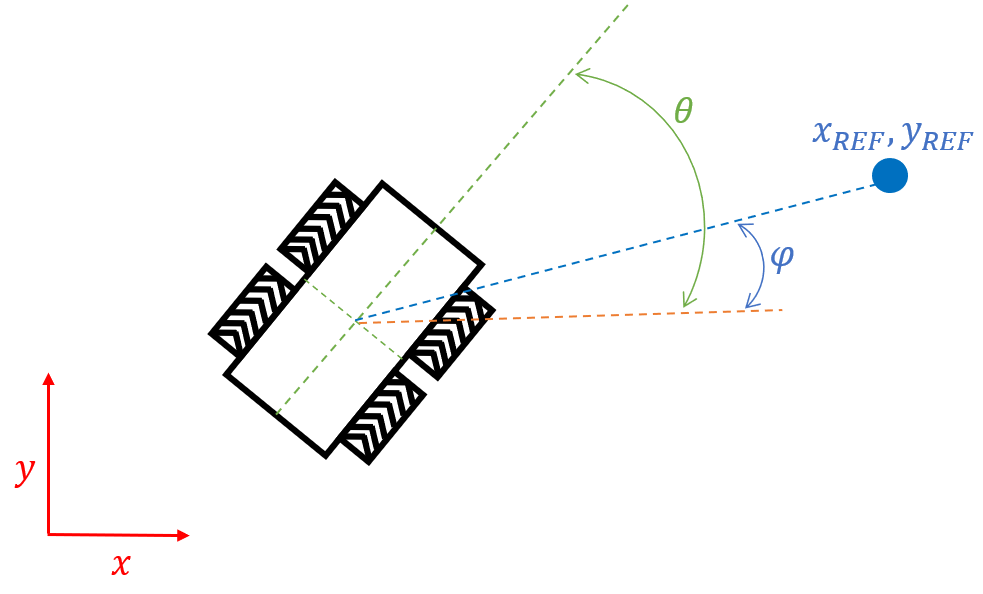
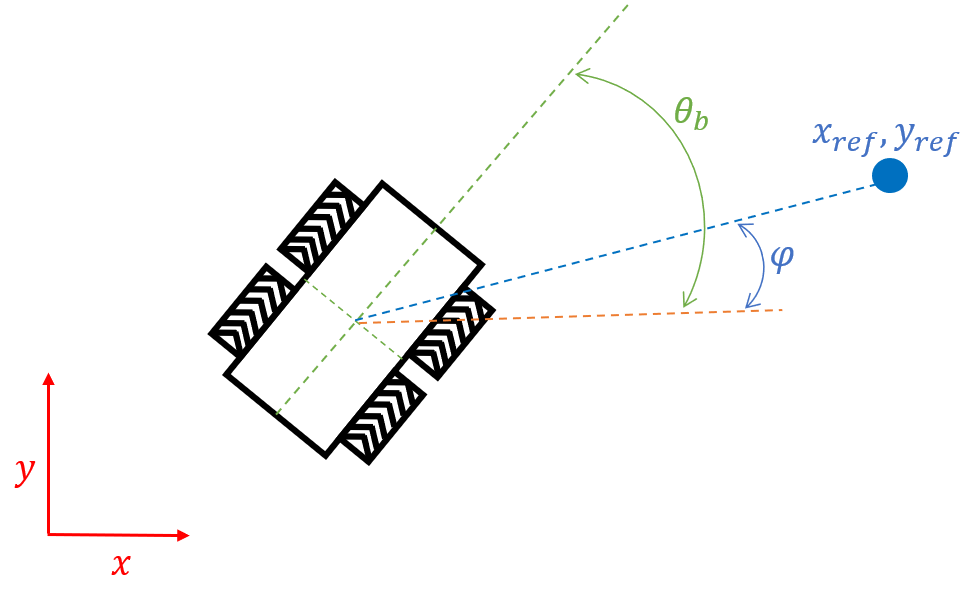
cap4 quasi corretto da me quindi boh

diff --git a/chapter4.tex b/chapter4.tex
@@ -1,30 +1,30 @@
 \chapter{Mobile Manipulators Control Problem}
 \label{chapter4}
-We have seen that Mobile Manipulators are systems where locomotion and manipulation tasks are held simultaneously. The coordination of this two tasks is not trivial since the mobile platform combined with the manipulator is a redundant system. So, the same point in workspace can be reached moving the mobile base, or moving the manipulator, or with a combined motion of the two. In addition to this kinematic issue, also the dynamic interaction between mobile base and manipulator should be taken into account in a control logic. \\
-In literature the control of mobile manipulators mainly followed two strategies. The first approach is the separate control of the mobile base and of the manipulator arm, considering then their interaction. With this approach is possible to simply solve the kinematic redundancy of the system. A reference for this approach can be \cite{liulewis} or \cite{chung1998interaction}. The second approach is the coordination of the motion of the base and the manipulator through the control of the whole integrated redundant system. 
-We will split this chapter in the description of the control of the mobile base, followed in a seceond section by the problem of the integration of the manipulator in the control.
+We have previously seen that Mobile Manipulators are systems where locomotion and manipulation tasks are held simultaneously. The coordination of this two tasks is not trivial since the mobile platform combined with the manipulator is a redundant system, so the same point in workspace can be reached moving the mobile base, or moving the manipulator, or with a combined motion of the two. In addition to this kinematic issue, also the dynamic interaction between mobile base and manipulator should be taken into account in a control logic. \\
+In literature the control of mobile manipulators mainly followed two strategies. The first approach is the separate control of the mobile base and of the manipulator arm, considering later their interaction. With this approach is possible to simply solve the kinematic redundancy of the system. A reference for this approach can be \cite{liulewis} or \cite{chung1998interaction}. The second approach is the coordination of the motion of both the base and the manipulator through the control of the whole integrated redundant system choosing one configuration among the infinite possible ones with a suitable criterion.\\
+We will split this chapter in the description of the control of the mobile base, followed in the second section by the problem of the integration of the manipulator in the control.
 \section{Control of Mobile Robots}
-Facing the control of the mobile base it is needed to deal with a nonholonomic system, which is nonlinear, as it has been written before.
-Usually for the control of the motion of the mobile base the kinematic model is used applying as inputs to the system the commands for the longitudinal velocity $v$ and the steering velocity $\omega$. In this way it is possible to control directly the generalized velocities of the base, i.e. $\dot{x},\dot{y},\dot{\theta}$.
-It would be certainly possible to use a dynamic based control of the motion through torques commands to the wheels of the base, but in most mobile robots, in particular in the one we used, the dynamic perturbation is very small, or it can be canceled through a proper state feedback. Moreover it is possible to command the mobile robot only via velocity commands.
+Facing the control of a mobile platform it is needed to deal with a nonholonomic system, which is nonlinear.
+Usually for the control of the mobile base motion the kinematic model is used applying as inputs to the system the commands for the longitudinal velocity $v$ and the steering velocity $\omega$. In this way it is possible to control directly the generalized velocities of the base, i.e. $\dot{x}_b,\dot{y}_b,\dot{\theta}_b$, through the nonholonomic relation \ref{G}.
+It would be certainly possible to use a dynamic based control of the motion giving torques commands to the wheels of the base, but in most mobile robots, in particular in the one we have used, the dynamic perturbation is very small, or it could be canceled through a proper state feedback. Moreover a common charachteristics of commercially available mobile platforms is that it is possible to give the mobile robot only velocity commands.\\
 The control of the mobile base can be implemented in two ways: regulation, i.e. driving the robot to a constant position and/or orientation, and trajectory tracking, i.e. forcing the robot to follow a time-varying reference trajectory.
 \subsection{Regulation}
 The regulation problem can be addressed in two ways.
 \subsubsection{Cartesian Regulation}
 \begin{figure}[h!]
 	\centering
-	\includegraphics[scale=0.8]{cartesian_regulation}
+	\includegraphics[scale=0.7]{cartesian_regulation}
 	\caption{Cartesian Regulation problem}
 	\label{cartregulation} 
 \end{figure}
 The robot (a unicycle) has to reach a point whose coordinates $(x_{ref},y_{ref})$ are defined in the Cartesian space. In this problem there is no need to control also the orientation of the robot. 
-In literature several control laws have been proposed. Among others \cite{siciliano} reports: defining the Cartesian error $\mathbf{e}_P=(x_{ref}-x,y_{ref}-y)=(e_{P_x},e_{P_y})$ the control inputs can be obtained as
+In literature several control laws have been proposed. Among others \cite{siciliano} reports: defining the Cartesian error $$\mathbf{e}_P=(x_{ref}-x_b,y_{ref}-y_b)=(e_{P_x},e_{P_y})$$ the control inputs can be obtained as
 \begin{align}
-	v &= k_1(e_{P_x}\cos\theta+e_{P_y}\sin\theta)\\
-	\omega &= k_2\left(\text{Atan2}\left(e_{P_y},e_{P_x}\right)-\theta-\pi\right)
+	v &= k_1(e_{P_x}\cos\theta_b+e_{P_y}\sin\theta_b)\\
+	\omega &= k_2\left(\text{Atan2}\left(e_{P_y},e_{P_x}\right)-\theta_b-\pi\right)
 \end{align}
 where $k_1$ and $k_2$ are positive constants. 
-As \cite{siciliano} too says, these commands can be directly interpreted, because $v$ is proportional to the Cartesian error, driving the robot to $\mathbf{e}_P=0$, while the $\omega$ is steering the robot in the direction pointing to $(x_{ref},y_{ref})$, i.e. $\omega$ is proportional to the difference $\theta-\varphi$, where $\varphi$ is $\text{Atan2}\left(e_{P_y},e_{P_x}\right)$.
+As \cite{siciliano} too says, these commands can be directly interpreted seeing $v$ has the an input proportional to the Cartesian error, driving the robot to $\mathbf{e}_P=0$, while $\omega$ is steering the robot in the direction pointing to $(x_{ref},y_{ref})$, i.e. $\omega$ is proportional to the difference $\theta-\varphi$, where $\varphi$ is $\text{Atan2}\left(e_{P_y},e_{P_x}\right)$ as can be seen in Figure \ref{cartregulation}.
 \subsubsection{Posture Regulation}
 The robot has to get to a certain configuration, i.e. Cartesian position and orientation. 
 Also in this case, the literature is full of control laws for this kind of problem. We report the control law found in \cite{dixon} and in \cite{samson}.
@@ -35,15 +35,15 @@ Defining, for a practical advantage, the transformation:
 		e_1\\e_2\\e_3
 	\end{matrix}\right] = 
 	\left[\begin{matrix}
-		\cos\theta & \sin\theta & 0 \\
-		-\sin\theta & \cos\theta & 0 \\
+		\cos\theta_b & \sin\theta_b & 0 \\
+		-\sin\theta_b & \cos\theta_b & 0 \\
 		0 & 0 & 1
 	\end{matrix}\right]
 	\left[\begin{matrix}
-	x_{ref}-x\\y_{ref}-y\\\theta_{ref}-\theta
+	x_{ref}-x_b\\y_{ref}-y_b\\\theta_{ref}-\theta_b
 	\end{matrix}\right]
 \end{equation}
-Which are the errors in a local frame of the mobile robot, where $e_1$ is the error in the longitudinal direction and $e_2$ is the error in the transversal direction.\\ Deriving the above equation taking into account the kinematic relation \ref{G}:
+where $\mathbf{e}$ is the vector of the errors in the local frame of the mobile robot. In particular $e_1$ is the error in the longitudinal direction and $e_2$ is the error in the transversal direction.\\ Deriving the above equation taking into account the kinematic relation \ref{G}:
 \begin{equation}
 	\left[\begin{matrix}
 		\dot{e}_1\\\dot{e}_2\\\dot{e}_3
@@ -70,27 +70,26 @@ where $k_1$ and $k_2$ are positive constants. So the closed-loop dynamics become
 	k_1e_1+\omega e_2\\-\omega e_1\\-k_2e_3+e_2^2\sin(t)
 	\end{matrix}\right]
 \end{equation}
-For the stability proof of this control law we refer to \cite{dixon}.
+Note that the closed-loop dynamics for $e_3$ is a linear system subjected to a nonlinear additive disturbance. Anyway it remains stable as long as this disturbance remains bounded. For the stability proof of this control law we refer to \cite{dixon}.
 \subsection{Trajectory Tracking}
-A \textit{trajectory} is a path, i.e. the locus of points which the robot has to follow in the execution of the assigned motion, over which a timing law has been assigned. \\
-So a trajectory can be represented as the time history $x_d(t),y_d(t)$, but in the case of a mobile robot the trajectory has also to be admissible, because it has to respect the nonholonomy of the system, i.e. it must satisfy the relation \ref{A}:
+Controlling that the robot follows a certain trajectory not only means to make it track a path, i.e. the locus of points which the robot has to follow in the execution of the assigned motion, but it also has to satisfy a timing law which has been assigned. In this sense a trajectory can be represented as a time-varying reference configuration $x_{ref}(t),y_{ref}(t),\theta_{ref}(t)$. \\In the case of mobile robots the trajectory has also to be admissible, respecting the nonholonomy of the system; in other words in every time instant the trajectory expression must satisfy the relation \ref{At}:
 \begin{equation} \label{admissibletrajectory}
 	\begin{split}
-		\dot{x}_d &= v_d\cos\theta_d\\
-		\dot{y}_d &= v_d\sin\theta_d\\
-		\dot{\theta}_d&=\omega_d
+		\dot{x}_{ref} &= v_{ref}\cos\theta_{ref}\\
+		\dot{y}_{ref} &= v_{ref}\sin\theta_{ref}\\
+		\dot{\theta}_{ref}&=\omega_{ref}
 	\end{split}
 \end{equation}
-Usually reference trajectories for mobile robots are being computed by planning algorithms so that \ref{admissibletrajectory} is satisfied, but they give in output just the Cartesian coordinates' time history. The orientation reference trajecory can be computed as:
+Usually reference trajectories for mobile robots are being computed by planning algorithms so that \ref{admissibletrajectory} is satisfied, giving in output just the Cartesian coordinates' time history. The orientation reference trajectory can be computed as:
 \begin{equation}
-	\theta_d(t)=\text{Atan2}(\dot{x}_d(t),\dot{x}_d(t)) 
+	\theta_{ref}(t)=\text{Atan2}(\dot{y}_{ref}(t),\dot{x}_{ref}(t)) 
 \end{equation}
  And also the resulting reference control inputs can be calculated.
  \begin{align}
- 	v_d(t)&=\sqrt{\dot{x}_d^2(t)+\dot{y}_d^2(t)}\\
- 	\omega_d(t)&=\frac{\ddot{y}_d(t)\dot{x}_d(t)-\ddot{x}_d(t)\dot{y}_d(t)}{\dot{x}^2_d(t)+\dot{y}^2_d(t)}
+ 	v_{ref}(t)&=\sqrt{\dot{x}_{ref}^2(t)+\dot{y}_{ref}^2(t)}\\
+ 	\omega_{ref}(t)&=\frac{\ddot{y}_{ref}(t)\dot{x}_{ref}(t)-\ddot{x}_{ref}(t)\dot{y}_{ref}(t)}{\dot{x}^2_{ref}(t)+\dot{y}^2_{ref}(t)}
  \end{align}
- To quantify the tracking control objective the tracking error vector $\mathbf{e}$ is defined as before (\ref{trackingerrortransformation}), but in trajectory tracking problems the derivative of $\mathbf{e}$ is different than in regulation problems because the derivative of the reference trajectory is no more null.
+ To quantify the control objective the tracking error vector $\mathbf{e}$ is defined as before (Equation \ref{trackingerrortransformation}), with the difference that in trajectory tracking problems the derivative of the reference trajectory is no more null.
  \begin{equation}
  	\left[\begin{matrix}
  		\dot{e}_1\\\dot{e}_2\\\dot{e}_3
@@ -101,7 +100,7 @@ Usually reference trajectories for mobile robots are being computed by planning 
  \end{equation}
  The tracking error dynamics is nonlinear, so the control of the system can be addressed with a nonlinear control or linearizing the system with a suitable transformation.
 \subsubsection{Nonlinear Control}
-A common used Nonlinear Control for trajectory tracking can be found in \cite{samsonCanudas},\cite{samson},\cite{dixon} and \cite{siciliano}, as follows:
+A common used Nonlinear Control for trajectory tracking problems can be found in \cite{samsonCanudas},\cite{samson},\cite{dixon} and \cite{siciliano} as follows:
 \begin{equation}
 	\left[\begin{matrix}
 	v\\\omega
@@ -119,43 +118,43 @@ Where $k_2$ is a positive constant and $k_1$ and $k_3$ are positive gains which 
 	\omega e_2-k_1e_1\\v_{ref}\sin e_3-\omega e_1\\-v_{ref}\frac{\sin e_3}{e_3}-k_2e_3
 	\end{matrix}\right]
 \end{equation}
-Also here, for the stability proof of this control law we refer to \cite{dixon}.
+Also for the stability proof of this control law we refer to \cite{dixon}.
 \subsubsection{Feedback Linearization}
 Input/Output linearization is a commonly used way to face both regulation and trajectory tracking problems for mobile robots, but it has been seen that paradoxically it solves more easily trajectory tracking problems than regulation ones.
-The idea of Feedback Linearization is to move the control problem to the trajectory of a point $P$ placed at a distance $\epsilon$ from the centre of the mobile robot in the direction of the longitudinal velocity.
+The idea of Feedback Linearization is to move the control problem to the trajectory tracking of a point $P$ placed at a distance $\varepsilon$ from the centre of the mobile robot in the direction of the longitudinal velocity.
 Its coordinates are
 \begin{equation}
 	\begin{split}
-		x_P&=x+\epsilon\cos\theta\\
-		y_P&=y+\epsilon\sin\theta
+		x_P&=x+\varepsilon\cos\theta_b\\
+		y_P&=y+\varepsilon\sin\theta_b
 	\end{split}
 \end{equation}
-Which differentiated are the velocities of $P$:
+which differentiated give the velocities of $P$:
 \begin{equation}
 	\left[\begin{matrix}
 		\dot{x}_P\\\dot{y}_P
 	\end{matrix}\right]=\left[\begin{matrix}
-		\dot{x}_P-\dot{\theta}\epsilon\sin\theta\\
-		\dot{y}_P+\dot{\theta}\epsilon\cos\theta
+		\dot{x}_P-\dot{\theta}_b\varepsilon\sin\theta_b\\
+		\dot{y}_P+\dot{\theta}_b\varepsilon\cos\theta_b
 	\end{matrix}\right]=\left[\begin{matrix}
-	\cos\theta & -\epsilon\sin\theta\\
-	\sin\theta & \epsilon\cos\theta
+	\cos\theta_b & -\varepsilon\sin\theta_b\\
+	\sin\theta_b & \varepsilon\cos\theta_b
 	\end{matrix}\right]\left[\begin{matrix}
-	v\\\omega\end{matrix}\right]=T(\theta)\left[\begin{matrix}
+	v\\\omega\end{matrix}\right]=T(\theta_b)\left[\begin{matrix}
 	v\\\omega\end{matrix}\right]
 \end{equation}
-The determinant of matrix $T(\theta)$ is equal to $\epsilon$ and therefore always different from $0$ as long as $b=0$. Thence the inverted relation is:
+The determinant of matrix $T(\theta_b)$ is equal to $\varepsilon$ and therefore always different from $0$ as long as $b\neq0$. Thence the inverted relation is:
 \begin{equation} 
 	\left[\begin{matrix}
 		v\\\omega\end{matrix}\right]
 	=\left[\begin{matrix}
 		\cos\theta & \sin\theta\\
-			-\frac{1}{\epsilon}\sin\theta & \frac{1}{\epsilon}\cos\theta
+			-\frac{1}{\varepsilon}\sin\theta & \frac{1}{\varepsilon}\cos\theta
 	\end{matrix}\right]\left[\begin{matrix}
 		u_1\\u_2
 	\end{matrix}\right] 
 \end{equation}
-Where $u_1$ and $u_2$ are the new linearized output of the controller. Indeed thanks to the feedback linearization, a simple linear model can be rewritten:
+where $u_1$ and $u_2$ are the new linearized output of the controller. Indeed thanks to the feedback linearization, a simple linear model can be rewritten:
 \begin{equation}
 	\left[\begin{matrix}
 		\dot{x}_P\\\dot{y}_P
@@ -170,76 +169,76 @@ And so a very simple linear controller can be defined as in \cite{siciliano} wit
 		u_2&=\dot{y}_{P_{ref}}+k_2\left({y_P}_{ref}-y_P\right)
 	\end{split}
 \end{equation}
-Where $k_1$ and $k_2$ are positive gains. \\
-It has to be noted that the orientation of the unicycle  $\theta$ is not controlled, but its time evolution due to the control inputs $u_1$ and $u_2$ can be modeled as:
+where $k_1$ and $k_2$ are positive gains. \\
+It has to be noted that the orientation of the unicycle  $\theta_b$ is not controlled, but its time evolution due to the control inputs $u_1$ and $u_2$ can be modeled as:
 \begin{equation}
- 	\dot{\theta}=\frac{u_2\cos\theta-u_1\sin\theta}{\epsilon}
+ 	\dot{\theta_b}=\frac{u_2\cos\theta_b-u_1\sin\theta_b}{\varepsilon}
 \end{equation}
-Also a notation on the value of $\epsilon$ has to be added, because with smaller values of $\epsilon$ is possible to track more precisely a trajectory even if it involves curves with a small radius, but decreasing $\epsilon$, $T(\theta)$ tends to be singular, therefore leading to much higher values of $v$ and $\omega$.
+Also a notation on the value of $\varepsilon$ has to be added, because with smaller values of $\varepsilon$ it is possible to track more precisely the motion of the mobile robot along a trajectory even if it involves curves with a small radius, but decreasing $\varepsilon$, $T(\theta_b)$ tends to be singular, therefore leading to much higher values of $v$ and $\omega$.
 
 \section{Control of Mobile Manipulators}
-Although Mobile Manipulators are a known technology from decades, the control of these systems is still sparse. In literature many approaches have been proposed to face the kinematic redundancy of the Mobile Manipulator system. \\
-A typical Mobile Manipulator consists of a nonholonomic base with 2 degrees of freedom (considering the nonholonomic constraint on the generalized velocities) and an arm which usually have 6 degrees of freedom, for a total of $n=8$; anyway, for vector $X_{ee}$ of the position and orientation of the end effector position has only $m=6$ components to be defined. The remaining $r=n-m=2$ redundant degrees of freedom can be exploited to solve the kinematic redundancy problem, mentioned in section \ref{dirinvkin}, satisfying a set of user-defined additional tasks. As explained in \cite{bayle},\cite{seraji1998},\cite{seraji1993} and \cite{mikschschroeder}, these additional tasks are described by a set of internal coordinates which are defined as kinematic function of the generalized coordinates $\xi=\left[x^T ; q^T\right]$
+Although Mobile Manipulators are a known technology from decades, the control of these systems is still sparse. As said before it is surely possible to consider separately the base and the manipulator using known strategies for the control of the two, dealing only with the coupling of their motions, but what is of particular interest is the possibility of coordination of the motion of the two subsystems in order to achieve a certain task. In literature many approaches have been proposed to track a reference trajectory of the end effector position and orientation $X_{ee,ref}(t)$ coping with the kinematic redundancy of the Mobile Manipulator system. As explained in \cite{bayle},\cite{seraji1998},\cite{seraji1993} and \cite{mikschschroeder}, the redundant degrees of freedom of the system can be exploited to solve the kinematic redundancy problem satisfying a set of user-defined additional tasks. In their works, these tasks are described by a set of internal coordinates, defined as kinematic functions of the generalized coordinates $x=\left[x_a^T ; x_b^T\right]$:
 \begin{equation}\label{Phi}
-	\Phi=g(\xi)
+	\Phi=g(x)
 \end{equation}
-These internal coordinates can have different physical meanings (like the distance between the wrist of the manipulator from the arm) or mathematical meanings (such as the projection of the gradient of an objecive function). There is not a fixed set of kinematic functions to pick, but the user can define those according to the task that has to be performed. A new extended vector $X_{ext}$ can be defined as:
+These internal coordinates can have different physical meanings, like the distance between the wrist of the manipulator from the arm, or mathematical meanings, such as the projection of the gradient of an objecive function. There is not a fixed set of kinematic functions to pick, but the user can define those according to the task that has to be performed. A new extended vector $X_{ext}$ can then be defined as:
 \begin{equation}
 	X_{ext}=\left[\begin{matrix}
 	X_{ee} \\ \Phi
 	\end{matrix}\right]
 \end{equation}
-The control problem now becomes a trajectory tracking of ${X_{ext}}_{ref}(t) =\left[\begin{matrix} {X_{ee}}_{ref}^T(t) \ ;\ \Phi_{ref}^T(t) \end{matrix}\right]$, where $ \Phi_{ref}(t)$ is defined by the relation \ref{Phi} over time.\\
-The trajectory tracking problem usually consists in the optimization of an objective function $\varphi(q)$ defined with one or multiple properly weighted criteria, some of which are shown in \cite{multicriteria}. The most used optimization criteria are: 
+The control problem now becomes a trajectory tracking of ${X_{ext}}_{ref}(t) =\left[\begin{matrix} X_{ee,ref}^T(t) \ ;\ \Phi_{ref}^T(t) \end{matrix}\right]$, where $ \Phi_{ref}(t)$ is defined by the relation \ref{Phi} over time.\\
+The trajectory tracking problem usually consists in the optimization of an objective function $\varphi(x)$ defined with one or multiple properly weighted criteria, some of which are shown in \cite{multicriteria}. The most used optimization criteria are: 
 \begin{itemize}
-	\item The maximization of the manipulability of the system. See \cite{yamamoto}. A short description of what manipulability will follow.
+	\item The maximization of the manipulability of the system. See \cite{yamamoto}. A short description of how manipulability is managed will follow.
 	\item The minimization of the torque inputs. See \cite{chen1997dynamic}.
 	\item The minimization of the deviation from the mid-range joints of the manipulator. See \cite{khatib1999}.
 \end{itemize}
 Clearly in addition to all these terms one is added for the minimization of the tracking error for all the vector $X_{ext}$.\\
-It is not mandatory to extend the controlled vector adding internal coordinates in order to solve the kinematic redundancy problem. The additional tasks that the robot is asked to accomplish can be obtained adding a term to be minimized, e.g. the manipulability index, in the optimization problem. See for example \cite{bayle1} or \cite{bayle2} where the control is divided in two terms, one term that imposes the joint velocities  through the pseudo-inverse matrix of $J(q)$ and one term to maximize the manipulability of the system.\\
-Exposing these methods we haven't had to specify wheter a kinematic or dynamic model is used, leaving the user the possibility to choose the more suitable one with respect to the type of task the robot has to perform. If, for example, the planned motions of the robot can involve an high dynamic influence of the base on the arm and/or viceversa, a dynamic model should be considered, using as input to the system the joint torques. A modelisation of the compensation of the dynamic effects between arm and base is discussed in \cite{yamamoto1}.
+The use of internal coordinates is only one of the ways to ask the robot to accomplish the user defined additional tasks. This indeed can be obtained adding a term to be minimized, e.g. the manipulability index, in the optimization problem. See for example \cite{bayle1} or \cite{bayle2} where the control is divided in two terms, one term that imposes the joint velocities  through the pseudo-inverse matrix of $J(x)$ and one term to maximize the manipulability of the system.\\
+Exposing these methods we have not had to specify wheter a kinematic or dynamic model is used, leaving the user the possibility to choose the more suitable one with respect to the type of task the robot has to perform. If, for example, the planned motions of the robot can involve an high dynamic influence of the base on the arm and/or viceversa, a dynamic model should be considered, using as input to the system the joint torques. A modelisation of the compensation of the dynamic effects between arm and base is discussed in \cite{yamamoto1}.
 Moreover, in the last years also some adaptive and robust controllers are being developed to deal with dynamic uncertainties, but they will not be discussed in this work. We refer to \cite{libromobilemanipulators} for a fairly thorough discussion on the subject.
 
 \subsubsection{Manipulability} 
-Kinematically the manipulability of a manipulator is a measure of its attitude to arbitrarily change the end effector position and orientation. \\
-A common manipulability index has been presented in \cite{yoshikawa1983} \cite{yoshikawa1985}.
+Kinematically the manipulability of a manipulator is a measure of its attitude to arbitrarily change the end effector position and orientation, so it is of interest to maximize manipulability in robotic operations in order to achieve high performances.\\
+A commonly used manipulability index has been presented in \cite{yoshikawa1983} \cite{yoshikawa1985}.
 \begin{equation}
-w(q) = \sqrt{\det\left(J(q)J^T(q)\right)}
+w(x) = \sqrt{\det\left(J(x)J^T(x)\right)}
 \end{equation}
-Where $J(q)$ is the Jacobian matrix that links the joints velocities to the end effector velocities. It is easy to see that the above expression is always positive and it reduces to $w(q)=\left| \det\left(J(q)\right)\right| $ when $J(q)$ is square. \\
-When $w(q)=1$ the end effector can move isotropically in all directions in the operational space.\\
-Both the mobile platform and the manipulator have contributions on the manipulability: if $J(q)=\left[\begin{matrix}J_b(q)&J_a(q)\end{matrix}\right]$ then
+Where $J(x)$ is the Jacobian matrix that links the joint velocities to the end effector velocities. It is easy to see that the above expression is always positive and it reduces to $w(x)=\left| \det\left(J(x)\right)\right| $ when $J(x)$ is a square matrix. When $w(x)=1$ the end effector can move isotropically in all directions in the operational space.\\
+Both the mobile platform and the manipulator have contributions on the manipulability: if $J(x)=\left[\begin{matrix}J_b(x)&J_a(x)\end{matrix}\right]$ then
 \begin{equation}
-w(q) = \sqrt{\det\left(J(q)J^T(q)\right)}=\sqrt{\det\left(J_b(q)J_b^T(q)\right)+\det\left(J_a(q)J_a^T(q)\right)}
+w(x) = \sqrt{\det\left(J(x)J^T(x)\right)}=\sqrt{\det\left(J_b(x)J_b^T(x)\right)+\det\left(J_a(x)J_a^T(q)\right)}
 \end{equation}
-It is possible to see that the base degrees of freedom increase the manipulability of the manipulator, i.e. even if the manipulator is in a singular configuration, $w(q)\neq0$. However, in certain cases $w$ can be equal to 0.
+It is possible to see that the base degrees of freedom increase the manipulability of the manipulator, i.e. even if the manipulator is in a singular configuration, $w(x)\neq0$. However, in certain cases $w$ can still be equal to 0. Different indices can be used giving different measures of manipulability and therefore they are suitable for different problems.
+
 \subsection{Obstacle Avoidance for Mobile Manipulators}
-Usually the main task assigned to a Mobile Manipulator is to follow a preplanned trajectory in the Cartesian space with the end effector. However, the robot doesn't know the environment in which it is. The robot motion has to be controlled such that a minimum distance between the robot links and the obstacles which can be present in the environment is kept greater than a security margin.\\
-The pioneering work of \cite{khatib1986} exploits the concept of \textit{artificial potential fields} in obstacle avoidance within the control of manipulators with a fixed base, or of mobile robots. A potential field is generated in the Cartesian space decreasing towards the goal position of the robot and increasin going in proximity of obstacles. An example of the expression of the potential field can be: 
+Usually the main task assigned to a Mobile Manipulator is to follow a preplanned trajectory in the Cartesian space with the end effector. However, the robot doesn't know the environment in which it is. The robot motion has to be controlled such that the minimum distance between the robot links and the obstacles which can be present in the environment is kept greater than a security margin.\\
+The pioneering work of \cite{khatib1986} exploits the concept of \textit{artificial potential fields} in obstacle avoidance within the control of manipulators with a fixed base, or of mobile robots. A potential field is generated in the Cartesian space decreasing towards the goal position of the robot and increasing going in proximity of obstacles. An example of the expression of the potential field can be: 
 \begin{equation}
 	\mathcal{U}=\mathcal{U}_{target}+\mathcal{U}_{obstacle}
 \end{equation}
 \begin{equation}
 	\begin{split}
-	\mathcal{U}_{target}&=\frac{1}{2}k\left(x-x_D\right)^2 \\
+	\mathcal{U}_{target}&=\frac{1}{2}k\left(x-x_{goal}\right)^2 \\
 	\mathcal{U}_{obstacle}&=\begin{cases}
 		\frac{1}{2}\eta\left(\frac{1}{\rho}-\frac{1}{\rho_0}\right)^2 & \text{if } \rho\leq\rho_0 \\
 		0 & \text{if } \rho>\rho_0
 	\end{cases}
 	\end{split}
 \end{equation}
-Where $k \text{and} \eta$ are positive constant, $\rho$ is a measure of the distance between a point of the robot and the obstacle and $\rho_0$ is a security distance margin from the obstacle.
+where $k$ and $\eta$ are positive constant, $\rho$ is a measure of the distance between a point of the robot and the obstacle and $\rho_0$ is a security distance margin from the obstacle. The result is a field of force shaped similarly to the one showed in figure \ref{potential_field}.
 \begin{figure}[h!]
 	\centering
 	\includegraphics[scale=0.4]{potential_field}
 	\caption{Example of artificial potential field}
+	\label{potential_field}
 \end{figure}
-Given a point in the Cartesian space a virtual force is generated by the potential field in the direction of the field gradient. 
+Given a point in the Cartesian space a virtual force is generated on that point by the potential field in the direction of the field gradient. 
 \begin{equation}
 \begin{split}
-F^*_{target}&=-grad\left[\mathcal{U_{target}}\right]=-k\left(x-x_D\right)^2 \\
-F^*_{obstacle}&=-grad\left[\mathcal{U_{obstacle}}\right]=\begin{cases}\eta\left(\frac{1}{\rho}-\frac{1}{\rho_0}\right)\frac{1}{\rho^2}\frac{\partial\rho}{\partial x}& \text{if } \rho\leq\rho_0 \\
+F^*_{target}&=-\nabla\mathcal{U}_{target}=-k\left(x-x_{goal}\right)^2 \\
+F^*_{obstacle}&=-\nabla\mathcal{U}_{obstacle}=\begin{cases}\eta\left(\frac{1}{\rho}-\frac{1}{\rho_0}\right)\frac{1}{\rho^2}\frac{\partial\rho}{\partial x}& \text{if } \rho\leq\rho_0 \\
 0 & \text{if } \rho>\rho_0
 \end{cases}
 \end{split}
@@ -253,6 +252,5 @@ With systems like Mobile Manipulators the obstacle avoidance problem can also be
 Where $l$ is the number of points where the obstacle avoidance is considered, $\alpha$ is a weighting factor and $p$ is a penalty function depending on the distance of the point from the obstacle.\\
 Another approach on Mobile Manipualators obstacle avoidance that deserves to be mentioned is the Elastic Strips method proposed in \cite{brockKhatib} where the motion of the robot is chosen between a set of homotopic collision-free paths through a potential field-based control algorithm. \\
 A general issue that each approach has to deal with is the calculation of the minimum distance $\rho$ to an obstacle, and consequently the geometric modelling of the obstacles. More recent obstacle avoidance strategies (\cite{falconatale}) have overcome the complex 3D modelisation of the environment or of the robot. The approach is based on the exploitation of perception data available only from simple proximity sensors distributed on the robot, in order to deviate pre-planned motions exploiting the robot redundancy while executing the primary task. However, this strategy does not guarantee to complete the primary task in any environment.
-\subsection{Grasping}
-................
+
 
